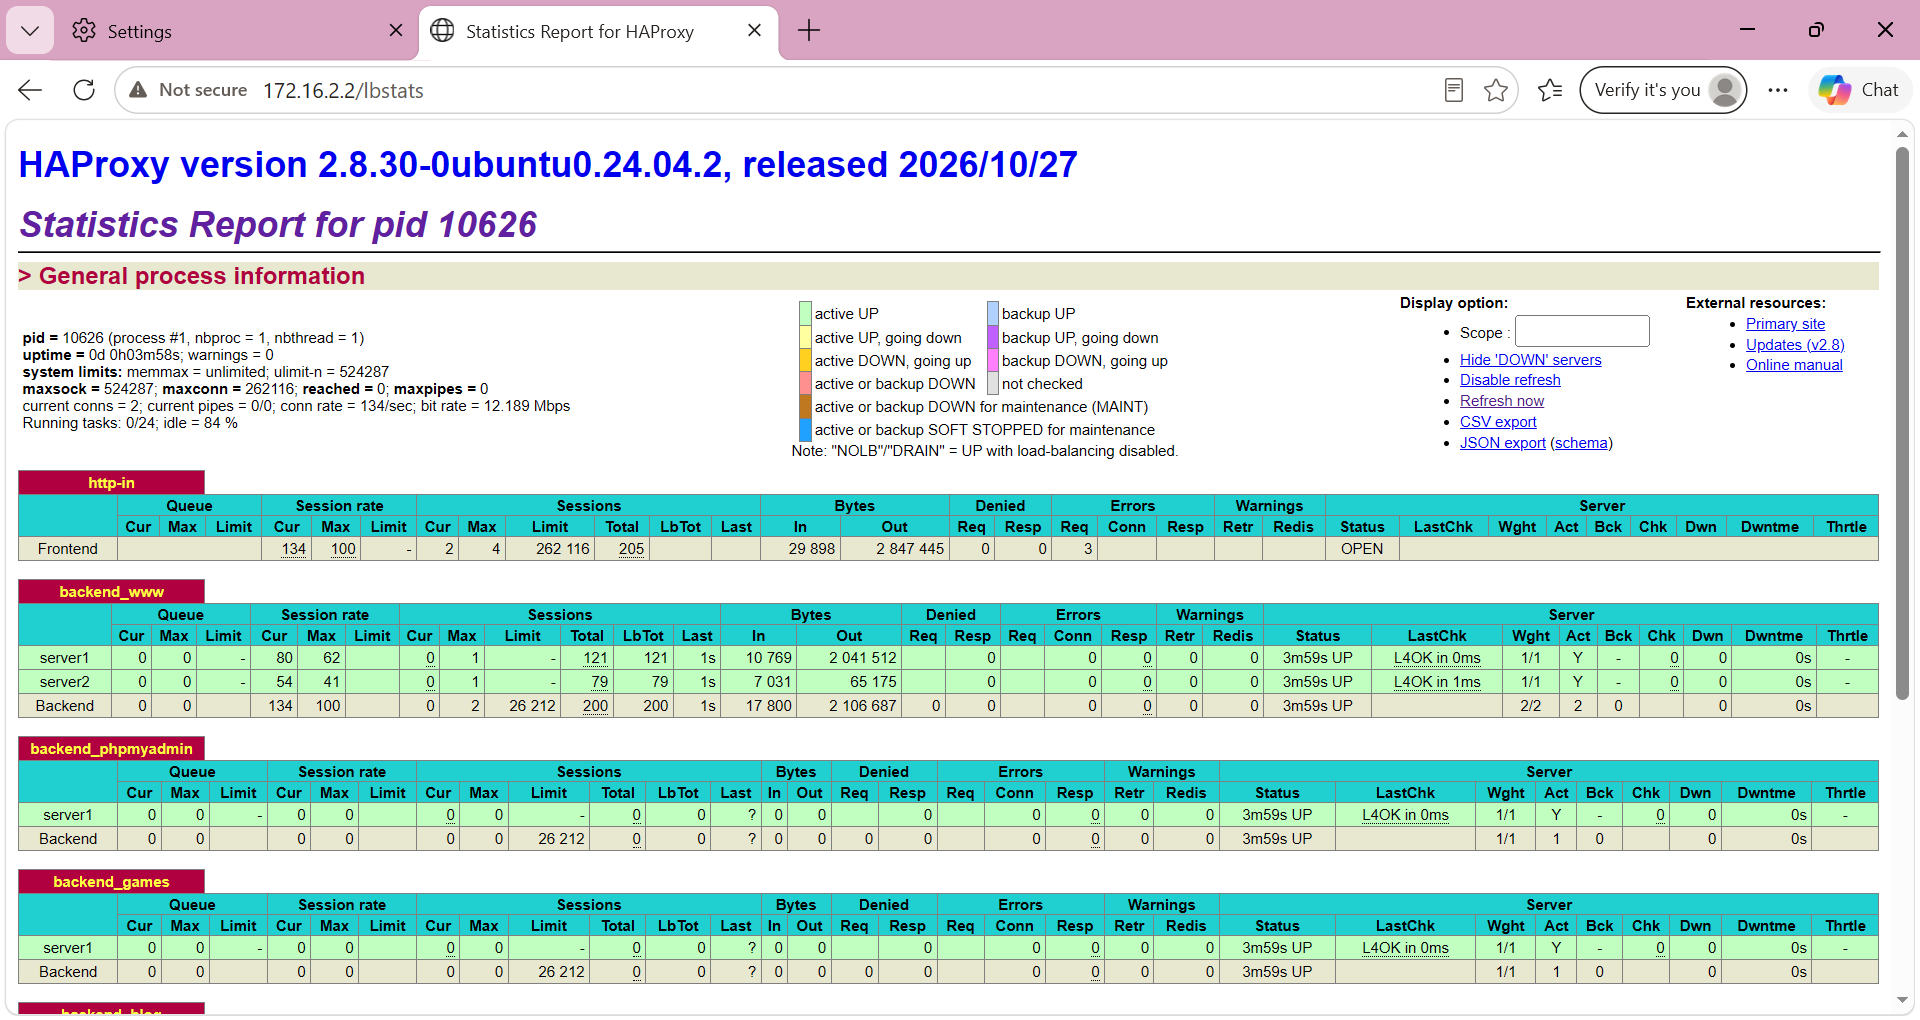
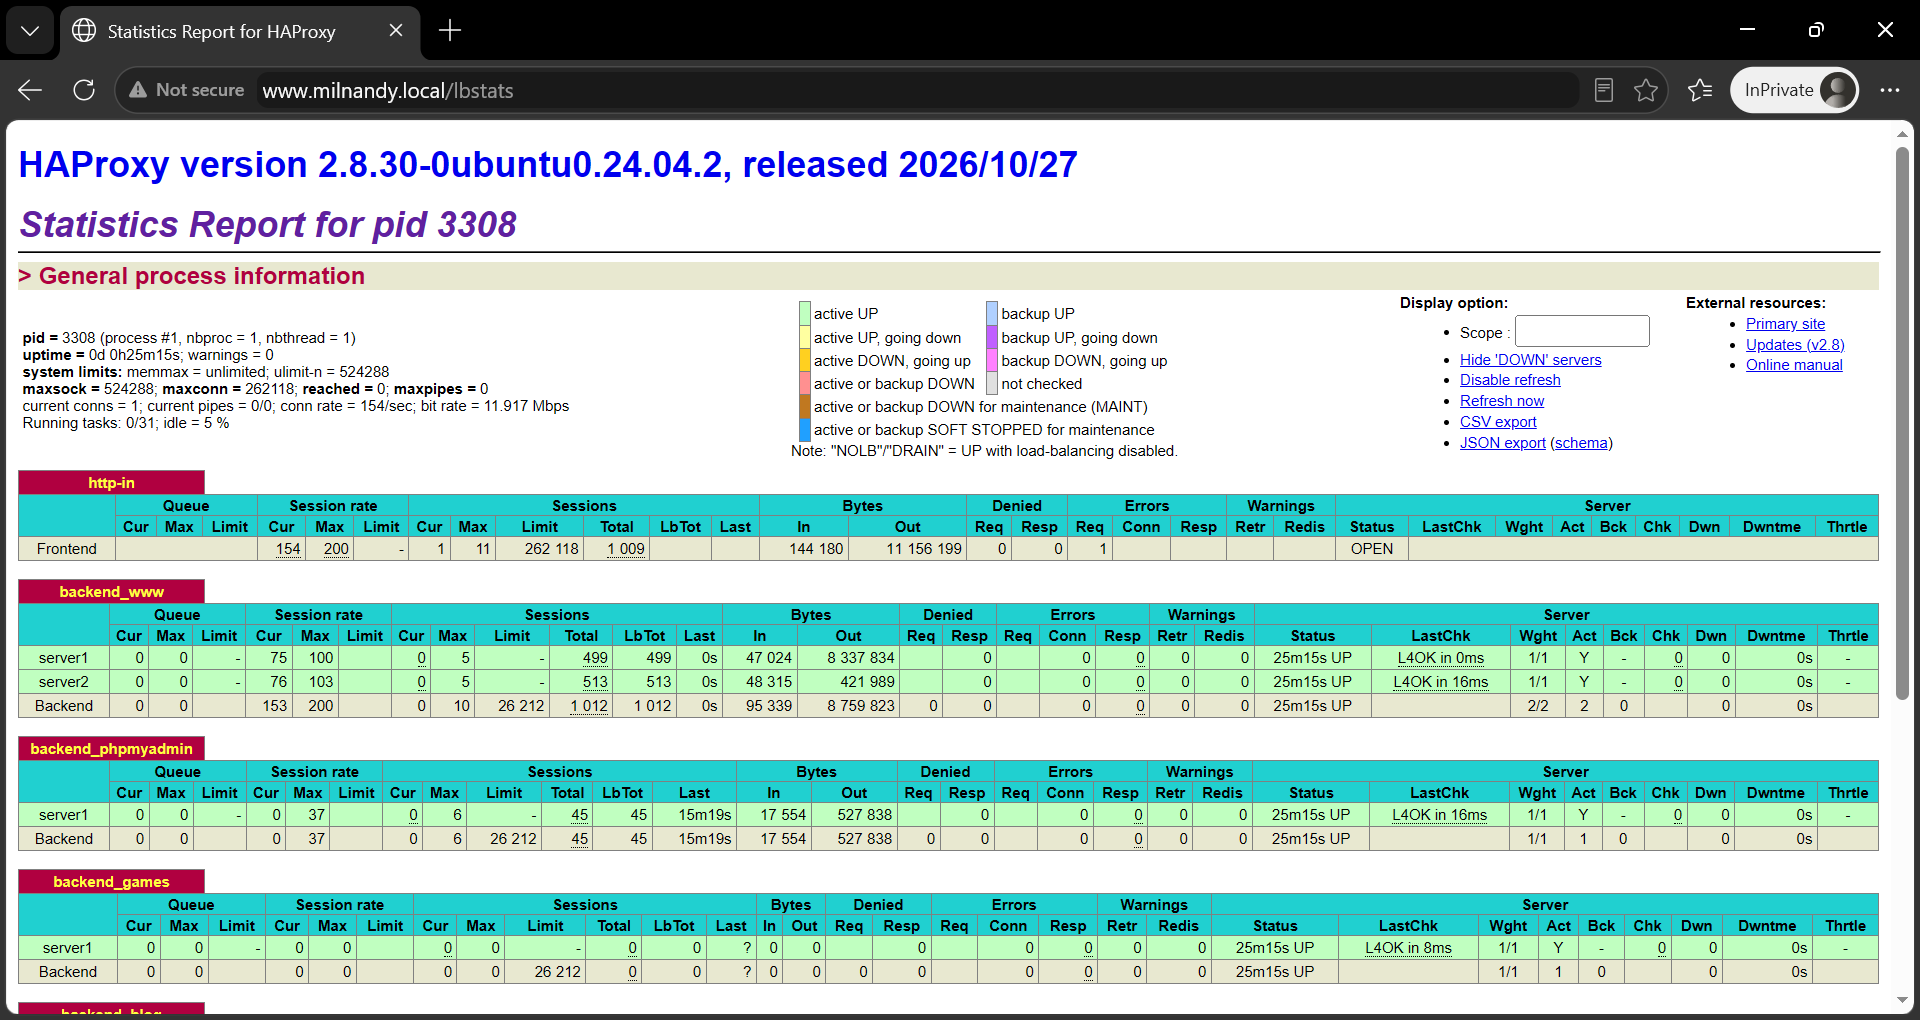
fix: adding image verification for accessing web on web browser using only subdomain without putting port, round robin & least connection feature

diff --git a/docs/phase-1-virtual-sandbox/06-load-balancing.md b/docs/phase-1-virtual-sandbox/06-load-balancing.md
@@ -196,7 +196,10 @@ Isi konfigurasi `/etc/nginx/conf.d/subdomains.conf`:
 ```nginx
 # 1. Definisi Upstream Klaster dengan Algoritma Least Connections
 upstream backend_www {
+
+    # Mengaktifkan algoritma Least Connections
     least_conn;
+
     server 172.16.2.2:8000; # Apache Server 1
     server 172.16.2.3:80;   # Nginx Server 2
 }
@@ -205,6 +208,14 @@ upstream backend_www {
 server {
     listen 80;
     server_name www.milnandy.local milnandy.local;
+
+    # Halaman statistik internal Nginx
+    location /nginx_status {
+        stub_status;
+        allow 127.0.0.1;
+        allow 172.16.2.0/24; # Izinkan subnet jaringan lab lokal Anda
+        allow all;
+        #deny all;
 
     location /phpmyadmin {
         proxy_pass http://172.16.2.2:8000/phpmyadmin;
@@ -271,21 +282,29 @@ Pastikan rute DNS lokal (`hosts`) di komputer host Windows Anda telah mengarahka
 - **Situs Utama (Load Balancing Round-Robin/LeastConn ke Server 1 & Server 2):**
   - URL: `http://www.milnandy.local` atau `http://milnandy.local`
   - _Hasil:_ Halaman portofolio utama tampil dan merespons secara bergantian dari kedua server backend.
+    ![Subdomain & Path Verification](/assets/phase-1-sandbox/image/subdomain-haproxy.PNG)
+    ![Subdomain & Path Verification](/assets/phase-1-sandbox/image/subdomain-haproxy1.PNG)
+    > _Tampilan web browser dengan penerapan reverse proxy saat membuka www.milnandy.local tanpa port serta penerapan loadbalancer antara server1 dan server2._
 - **Aplikasi Game 2048 (Dialihkan ke Backend Port 8001):**
   - URL: `http://games.milnandy.local`
   - _Hasil:_ Permainan 2048 terbuka secara langsung di port standar 80 publik, namun diproses secara transparan oleh _reverse proxy_ di balik layar menuju port `8001`.
+    ![Subdomain & Path Verification](/assets/phase-1-sandbox/image/subdomain-haproxy2.PNG)
+    > _Tampilan web browser dengan penerapan reverse proxy saat membuka games.milnandy.local tanpa port._
 - **Blog / Panel SSL (Dialihkan ke HTTPS):**
   - URL: `http://blog.milnandy.local`
   - _Hasil:_ Browser secara otomatis melakukan _redirect_ 301 menuju protokol aman `https://blog.milnandy.local`.
+    ![Subdomain & Path Verification](/assets/phase-1-sandbox/image/subdomain-haproxy3.PNG)
+    > _Tampilan web browser dengan penerapan reverse proxy saat membuka blog.milnandy.local tanpa port._
 - **Manajemen Database (phpMyAdmin):**
   - URL: `http://www.milnandy.local/phpmyadmin`
   - _Hasil:_ Halaman login phpMyAdmin terbuka dengan mengarahkan trafik secara eksklusif ke Server 1 (`172.16.2.2:8000`).
+    ![Subdomain & Path Verification](/assets/phase-1-sandbox/image/subdomain-haproxy4.PNG)
+    > _Tampilan web browser dengan penerapan reverse proxy saat membuka /phpmyadmin tanpa port._
 - **Dasbor Statistik HAProxy (Khusus saat menggunakan HAProxy):**
-  - URL: `http://www.milnandy.local/lbstats`
+  - URL: `http://www.milnandy.local/lbstats` atau `172.16.2.2/lbstats`
   - _Hasil:_ Menampilkan panel pemantauan kesehatan klaster (_health check_) real-time setelah memasukkan autentikasi (`admin:adminpassword`).
-
-> ![Subdomain & Path Verification](../assets/phase-1-sandbox/06-subdomains-pma-verification.png)
-> _[Instruksi]: Lampirkan tangkapan layar browser saat membuka situs games.milnandy.local dan path /phpmyadmin tanpa mencantumkan port._
+    ![Subdomain & Path Verification](/assets/phase-1-sandbox/image/lbstats.PNG)
+    > _Image browser saat membuka monitoring bawaan dari haproxy._
 
 ---
 
@@ -297,15 +316,24 @@ Untuk membuktikan bahwa mekanisme distribusi beban bekerja dengan baik, kita men
 
 Algoritma Round-Robin membagi request secara bergiliran urut dari Server 1 ke Server 2.
 
-1. Pastikan backend dikonfigurasi dengan `balance roundrobin` (di HAProxy) atau tanpa argumen tambahan di _upstream_ Nginx.
-2. Jalankan perintah pengujian dari terminal:
+1. Pastikan backend dikonfigurasi dengan `balance roundrobin` (di HAProxy dan Nginx) atau tanpa argumen tambahan di _upstream_ Nginx.
+2. Jalankan simulasi pengujian beban dengan koneksi konkuren yang padat agar terlihat pengaturannya:
    ```bash
-   ubuntu@ubuntu-server-1-24:~$ ab -n 10 -c 1 http://www.milnandy.local/
+   ubuntu@ubuntu-server-1-24:~$ while true; do ab -n 200 -c 10 http://www.milnandy.local/; sleep 1; done
    ```
-3. Cek log akses pada kedua server untuk melihat pencatatan waktu dan giliran IP yang merespons.
+3. Cek log akses pada kedua server untuk melihat pencatatan waktu dan giliran IP yang merespons dan lbstats.
 
-> ![Round-Robin Verification](../assets/phase-1-sandbox/06-roundrobin-verification.png)
-> *[Instruksi]: Lampirkan tangkapan layar terminal yang menunjukkan hasil *access log* Nginx/Apache di Server 1 dan Server 2 menerima request secara bergantian (selang-seling).*
+![Round-Robin Verification](/assets/phase-1-sandbox/image/lbstats4.PNG)
+![Round-Robin Verification](/assets/phase-1-sandbox/image/lbstats5.PNG)
+![Round-Robin Verification](/assets/phase-1-sandbox/image/lbstats6.PNG)
+
+> _Image menunjukkan hasil access log haproxy di Server 1 dan Server 2 menerima request secara bergantian (selang-seling) dan monitoring haproxy (bisa dilihat dibagian "backend_www" header "Session" di kolom "Cur" dan "Total")._
+
+![Round-Robin Verification](/assets/phase-1-sandbox/image/nginx-status4.PNG)
+![Round-Robin Verification](/assets/phase-1-sandbox/image/nginx-status5.PNG)
+![Round-Robin Verification](/assets/phase-1-sandbox/image/nginx-status6.PNG)
+
+> _Image menunjukkan hasil access log nginx di Server 1 dan Server 2 menerima request secara leastconn (koneksi paling sedikit) dan monitoring nginx (bisa dilihat dibagian "server accepts handled requests") tidak sedetail pada monitoring haproxy._
 
 #### **B. Verifikasi Algoritma Least Connections (`leastconn` / `least_conn`)**
 
@@ -316,10 +344,19 @@ Algoritma ini mengarahkan trafik baru ke server yang saat itu sedang memegang ju
    ```bash
    ubuntu@ubuntu-server-1-24:~$ while true; do ab -n 200 -c 10 http://www.milnandy.local/; sleep 1; done
    ```
-3. Amati perubahan metrik jumlah sesi aktif pada dasbor `/lbstats` (jika menggunakan HAProxy) atau amati lonjakan trafik pada _access.log_ [12].
+3. Amati perubahan metrik jumlah sesi aktif pada dasbor `/lbstats` (jika menggunakan HAProxy) atau amati lonjakan trafik pada _access.log_ dan `/nginx_status` (jika menggunakan Nginx).
 
-> ![Least Connections Verification](../assets/phase-1-sandbox/06-leastconn-verification.png)
-> _[Instruksi]: Lampirkan tangkapan layar panel /lbstats (HAProxy) atau hasil log real-time (Nginx) yang membuktikan bahwa server dengan beban koneksi lebih rendah diprioritaskan menerima sambungan baru._
+![Least Connections Verification](/assets/phase-1-sandbox/image/lbstats1.PNG)
+![Least Connections Verification](/assets/phase-1-sandbox/image/lbstats2.PNG)
+![Least Connections Verification](/assets/phase-1-sandbox/image/lbstats3.PNG)
+
+> _Image menunjukkan hasil access log haproxy di Server 1 dan Server 2 menerima request secara leastconn (koneksi paling sedikit) dan monitoring haproxy (bisa dilihat dibagian "backend_www" header "Session" di kolom "Cur" dan "Total")._
+
+![Least Connections Verification](/assets/phase-1-sandbox/image/nginx-status1.PNG)
+![Least Connections Verification](/assets/phase-1-sandbox/image/nginx-status2.PNG)
+![Least Connections Verification](/assets/phase-1-sandbox/image/nginx-status3.PNG)
+
+> _Image menunjukkan hasil access log nginx di Server 1 dan Server 2 menerima request secara leastconn (koneksi paling sedikit) dan monitoring nginx (bisa dilihat dibagian "server accepts handled requests") tidak sedetail pada monitoring haproxy._
 
 ---
 
